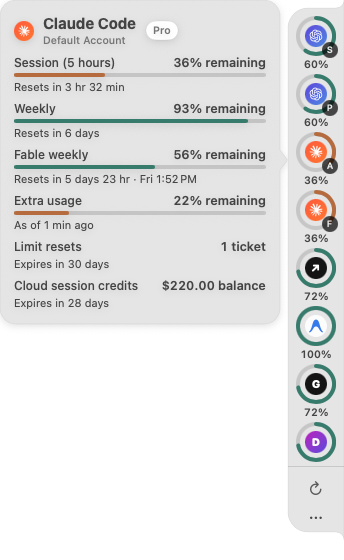
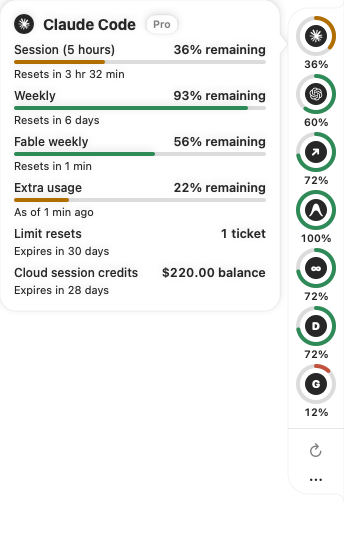
docs: show the unified Side Notch colors in the README

diff --git a/README.md b/README.md
@@ -27,8 +27,10 @@ and runs without an account or server of its own. The app is called
   windows, credits, spend, and when each one resets. The scroll bar appears
   only while you scroll.
 - **Side Notch.** An optional notch that grows out of the screen edge, with a
-  remaining-usage ring per account that turns amber and then terracotta as
-  the quota runs low. Point at one and its details open in a speech bubble
+  remaining-usage ring per account that stays green, turns amber below half,
+  and turns terracotta below a fifth. Rings and bars share that one rule, and
+  everything else is drawn in a single neutral, so color only ever means
+  "running low". Point at a ring and its details open in a speech bubble
   beside it.
 - **Native Settings.** Five panes (General, Display, Web Access, Order, Auth)
   in the standard macOS grouped style. Short panes fit their content; long
